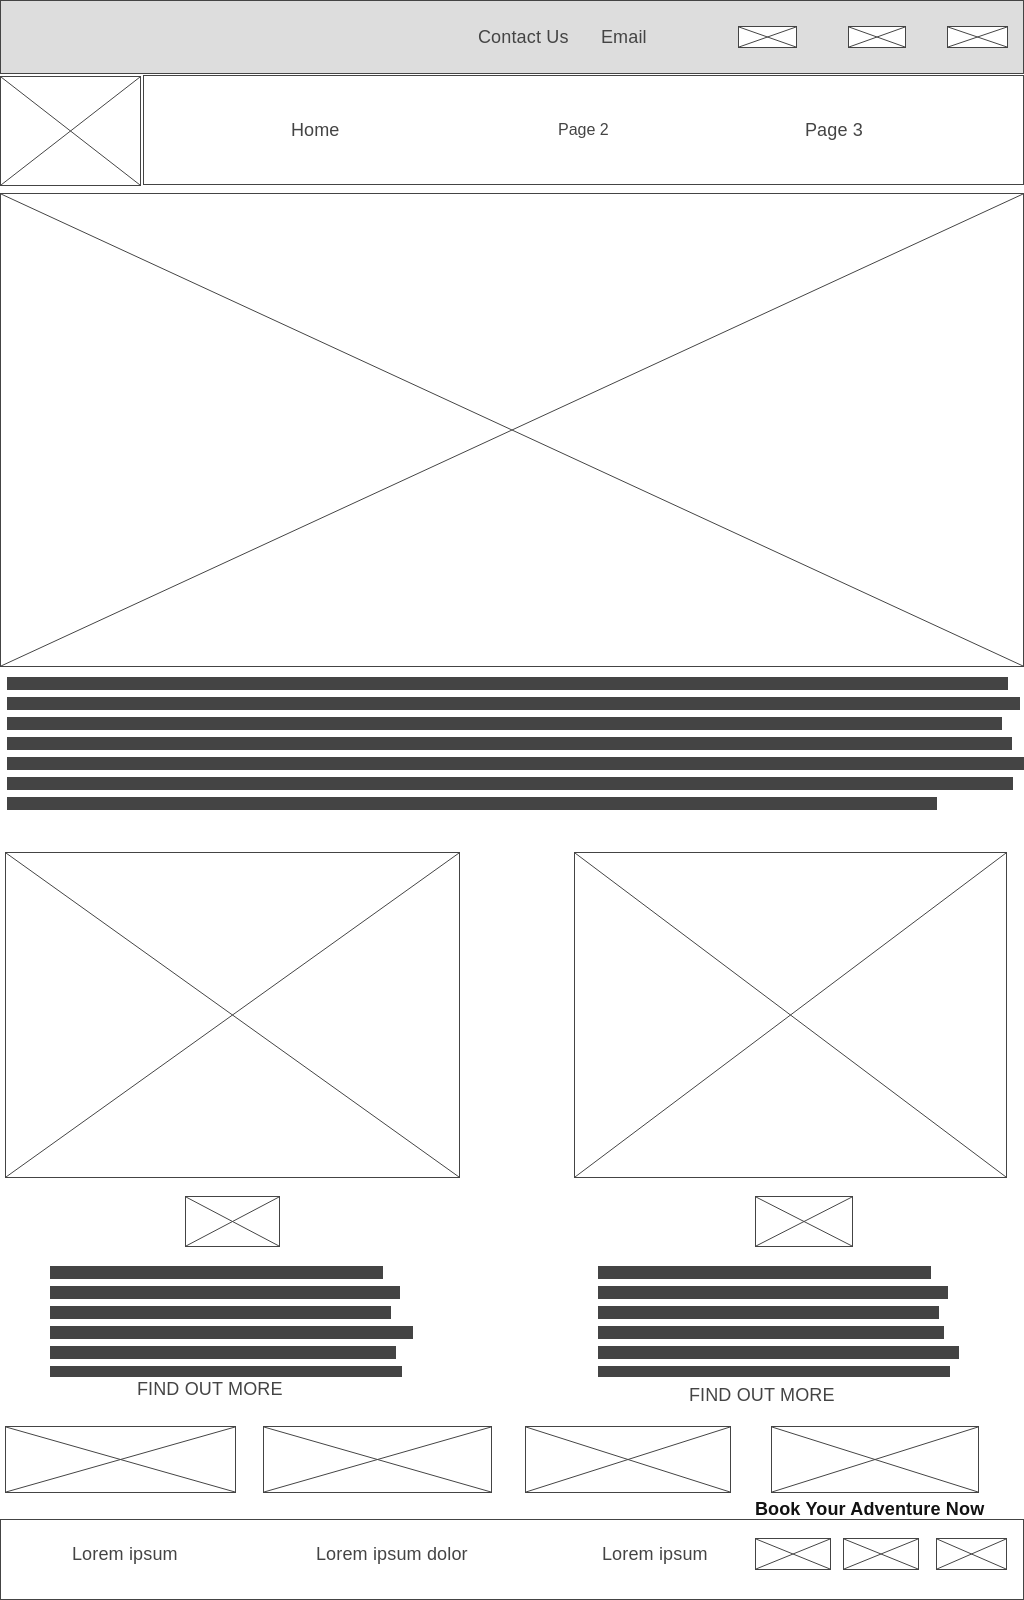
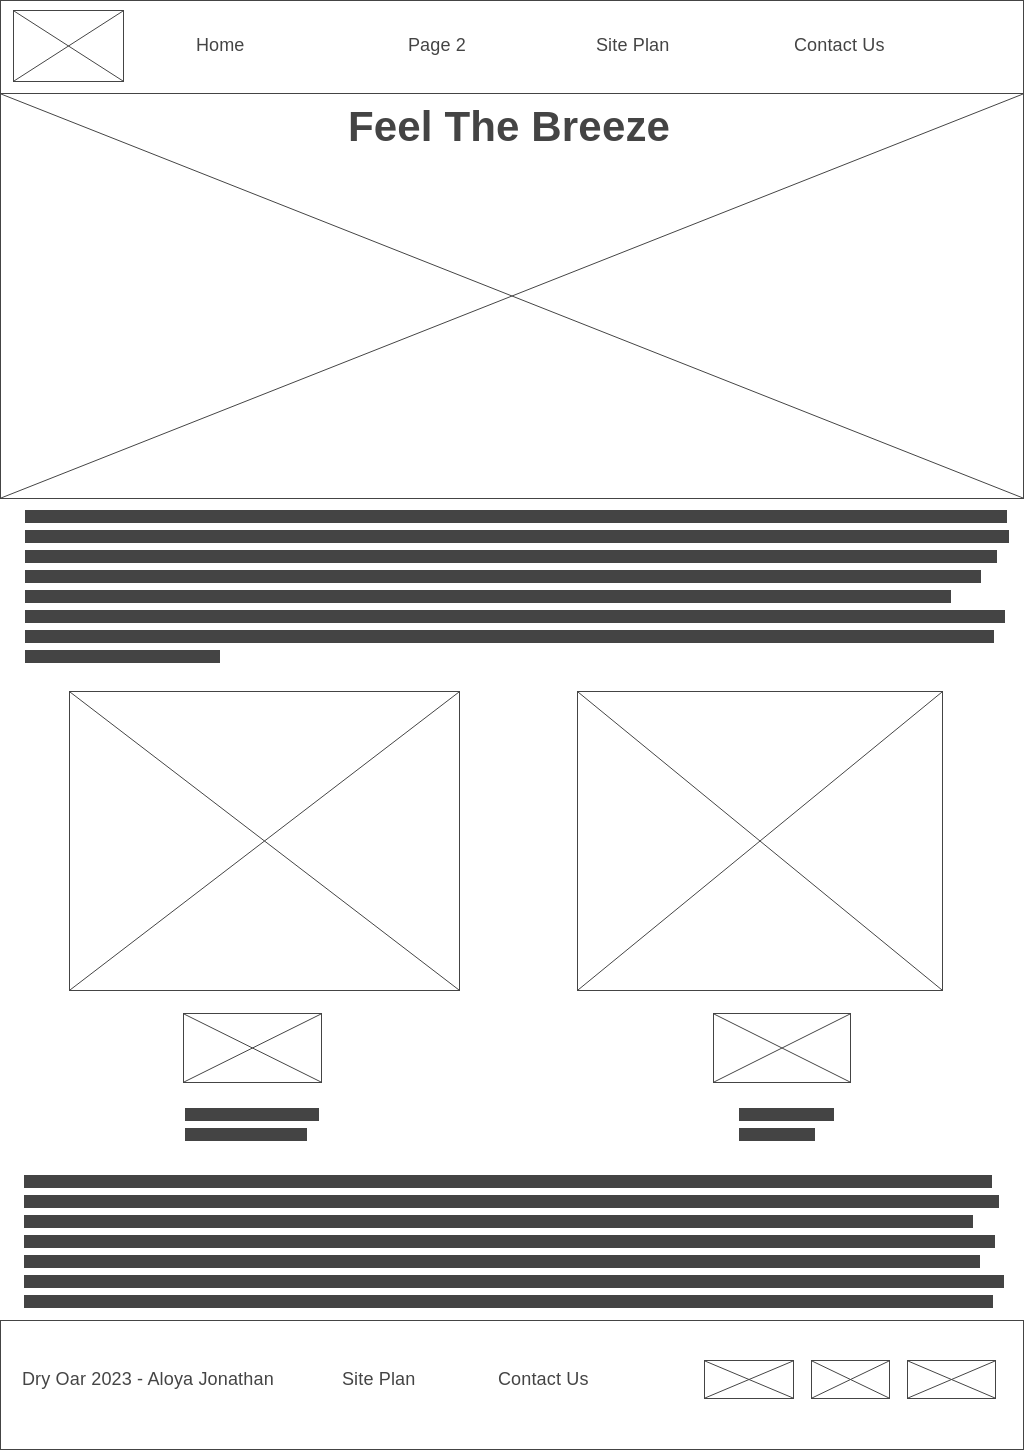
wireframe

diff --git a/wwr/about_us.html b/wwr/about_us.html
@@ -1,0 +1,81 @@
+<!DOCTYPE html>
+<html lang="en">
+<head>
+    <link rel="stylesheet" href="styles/style.css">
+    <meta charset="UTF-8">
+    <meta http-equiv="X-UA-Compatible" content="IE=edge">
+    <meta name="viewport" content="width=device-width, initial-scale=1.0">
+    <title>Whitwater Rafting Vacations | Dry Oar Boating | Home</title>
+</head>
+<body>
+    <div id=" content">
+    <header>
+        <a id="logo_link" href="index.html">
+            <img class="logo" src="images/logo.png" alt="Dry Oar Logo">
+        </a>
+        <nav>
+            <a href="index.html">Home</a>
+            <a href="#">Page 2</a>
+            <a href="site-plan-rafting.html">Site Plan</a>
+            <a href="contactus.html">Contact Us</a>
+        </nav>
+    </header>
+    <div id="hero">
+        <div id="hero-box">
+            <img id="hero-img" src="images/rafting2.jpg" alt="People enjoying white water rafting">
+        </div>
+        <section id="hero-msg">
+            <h1 class="h-title">Feel The Breeze</h1>
+            
+        </section>
+    <p id="h_msg">
+            Winding through canyons in central Utah, in some of the most desolate land anywhere, the Green river flows towards the mighty Colorado river and the sea. 
+            High grey stone cliffs, beautiful desert scenery, and great rapids have made this run famous. This 84-mile trip runs from from Sand Wash to Swaseys Rapid (just outside Green River Utah)
+             and boasts outstanding scenery, interesting geologic formations, evidence of prehistoric and historic human activity, and great whitewater opportunities.
+
+            Desolation is rated a Class II/III and is usually done in 6 days
+
+            Desolation Canyon has been recognized as a National Landmark.  This designation is based on the uniqueness and rich history that the canyon tells.
+    </p>
+
+    </div>
+    <main class="home-grid">
+        <section class="rivers-card2">
+            <img class="card-img" src="images/rafting3.jpg" alt="river in forest">
+            <img class="icon" src="images/river_icon.png" alt="">
+            <h2>Rivers</h2>
+        </section>
+        <section class="rapids-card2">
+            <img class="card-img" src="images/rafting4.jpg" alt="rafting boat">
+            <img class="icon" src="images/oars.png" alt="oars icon">
+            <h2>rapids</h2>
+        </section>
+    <p id="p1">
+        This is the grand daddy of all canyons and the grand daddy of all river trips. You will never forget your visit to the Grand Canyon.
+
+Grand Canyon river rafting combines world-class whitewater with breathtaking scenery to make one truly unforgettable river experience. 
+The canyon is filled not only with exhilarating whitewater rapids, but with side canyons and ancient indian ruins accessible only by river.
+
+CLASS I - X: The Grand Canyon uses a unique river rating scale. The rapids in the Canyon are technically rated I - X ( 1 - 10) to accommodate such a wide variety of rapids and river variances. However, most people are familiar with the regular I - V river rating scale, so we often refer to both.
+    </p>    
+    </main>
+    <footer>
+        <p>Dry Oar &copy; 2023 - Aloya Jonathan</p>
+        <p><a href="site-plan-rafting.html">Site Plan</a></p>
+        <p><a href="contactus.html"></a>Contact Us</p>
+        <div class="social">
+            <a href="https://facebook.com" target=" blank">
+                <img src="images/facebook.png" alt="fb icon">
+            </a>
+            <a href="https://twitter.com" target=" blank">
+                <img src="images/twitter.png" alt="twitter icon">
+            </a>
+            <a href="https://instagram.com" target=" blank">
+                <img src="images/instagram.png" alt="instagram icon">
+            </a>
+
+        </div>
+    </footer>
+    </div>  
+</body>
+</html>

diff --git a/wwr/styles/style.css b/wwr/styles/style.css
@@ -4,6 +4,51 @@
     max-width: 1600px;
     margin: 0 auto;
 }
+.head {
+    background-color: #36827F;
+    max-width: 100%;
+    margin: 0 auto;
+    position: static;
+}
+#raft-img {
+    width: 100%;
+}
+#hero-msg2 {
+    text-align: center;
+    grid-column: 2/3;
+    grid-row: 1/2;
+    margin-top: 100px;
+}
+.h-title {
+    color: black;
+    font-family: "Roboto", "Raleway";
+    font-size: 2em;
+    margin-top: 10px;
+}
+#h_msg {
+    text-align: center;
+    border: 10px;
+    padding: 50px;
+    position: absolute;
+    width: 1500px;
+    margin-top: 50%;
+    margin-left: 100px;   
+}
+#p1 {
+    text-align: center;
+    border: 10px;
+    padding: 50px;
+    position: absolute;
+    width: 1500px;
+    margin-top: 38%;
+    margin-left: 100px; 
+    padding: absolute;
+}
+#content2 {
+    max-width: 1600px;
+    margin: 0 auto;
+    background-attachment: fixed;
+}
 nav a {
     text-align: center;
     color: black;
@@ -15,6 +60,7 @@ nav {
     display: flex;
     justify-content: space-around;
 }
+
 #hero-img h1 {
     text-align: center;
 }
@@ -44,7 +90,17 @@ main section {
     grid-template-columns: 1fr 3fr 1fr;
     margin-top: -100px;
 }
+#about{
+    display: grid;
+    grid-template-columns: 1fr 3fr 1fr;
+    margin-top: -100px;
+}
 #hero-box {
+    grid-column: 1/4;
+    grid-row: 1/3;
+    z-index: -1;
+}
+#about-box {
     grid-column: 1/4;
     grid-row: 1/3;
     z-index: -1;
@@ -80,6 +136,7 @@ nav a:hover {
 .home-grid {
     display: grid;
     grid-template-columns: repeat(10, 1fr);
+    
 }
 main section img {
     box-sizing: border-box;
@@ -156,13 +213,14 @@ footer p {
     width: 100%;
     transition: transform .5s;
     box-shadow: 5px 5px 10px #14213d;
+    float: left;
 }
 .card-img:hover {
     opacity: .6;
     transform: scale(1.1);
 }
 .mountains {
-    width: 100%;
+    width: 50%;
     grid-column: 2/7;
     grid-row: 5/8;
     box-shadow: 5px 5px 10px #14213d;
@@ -170,6 +228,10 @@ footer p {
 
 .logo {
     width: 80px;
+}
+.logo2 {
+    width: 80px;
+    align-items: start;
 }
 #logo_link {
     padding-top: 5px;
@@ -184,17 +246,37 @@ footer .social img {
     grid-column: 2/4;
     grid-row: 2/3;
 }
- 
+.rivers-card2{
+    margin: 200px 0;
+    grid-column: 2/5;
+    grid-row: 2/3;
+    height: 300px;
+    display: block;
+}
 .camping-card {
     margin: 200px 0;
     grid-column: 5/7;
     grid-row: 2/3;
+    
 }
  
 .rapids-card {
     margin: 200px 0;
     grid-column: 8/10;
     grid-row: 2/3;
+    display: block;
+    margin: auto;
+    display: block;
+}
+.rapids-card2 {
+    margin: 200px 0;
+    grid-column: 7/10;
+    grid-row: 1/3;
+    display: block;
+    margin: auto;
+    height: 300px;
+    margin-top: 200px;
+    
 }
 
 @media screen and (max-width: 900px) {
